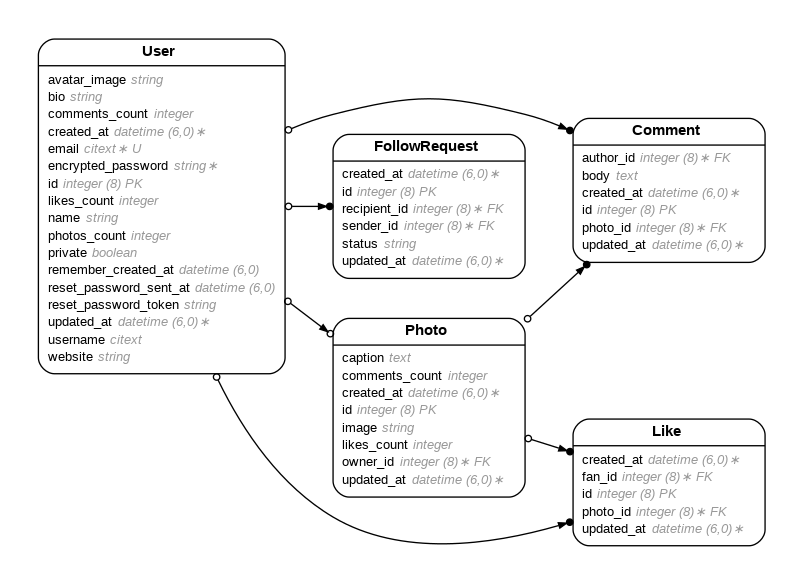
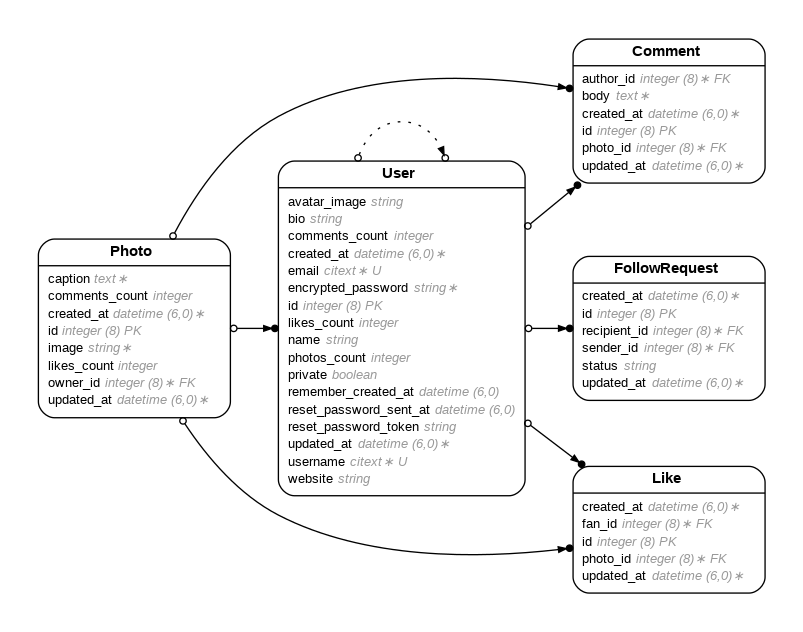
added default value to users privacy

diff --git a/spec/models/user_spec.rb b/spec/models/user_spec.rb
@@ -3,12 +3,11 @@
 # Table name: users
 #
 #  id                     :bigint           not null, primary key
-#  avatar_image           :string           default("avatar_placeholder.png")
+#  avatar_image           :string
 #  bio                    :string
 #  comments_count         :integer          default(0)
 #  email                  :citext           default(""), not null
 #  encrypted_password     :string           default(""), not null
-#  integer                :integer          default(0)
 #  likes_count            :integer          default(0)
 #  name                   :string
 #  photos_count           :integer          default(0)
@@ -16,7 +15,7 @@
 #  remember_created_at    :datetime
 #  reset_password_sent_at :datetime
 #  reset_password_token   :string
-#  username               :citext           not null
+#  username               :citext
 #  website                :string
 #  created_at             :datetime         not null
 #  updated_at             :datetime         not null

diff --git a/db/schema.rb b/db/schema.rb
@@ -10,7 +10,7 @@
 #
 # It's strongly recommended that you check this file into your version control system.
 
-ActiveRecord::Schema[8.0].define(version: 2025_07_19_231132) do
+ActiveRecord::Schema[8.0].define(version: 2025_07_20_214353) do
   # These are extensions that must be enabled in order to support this database
   enable_extension "citext"
   enable_extension "pg_catalog.plpgsql"
@@ -208,7 +208,7 @@ ActiveRecord::Schema[8.0].define(version: 2025_07_19_231132) do
     t.string "avatar_image"
     t.string "bio"
     t.string "website"
-    t.boolean "private"
+    t.boolean "private", default: true
     t.integer "likes_count", default: 0
     t.integer "comments_count", default: 0
     t.datetime "created_at", null: false

diff --git a/app/models/user.rb b/app/models/user.rb
@@ -11,7 +11,7 @@
 #  likes_count            :integer          default(0)
 #  name                   :string
 #  photos_count           :integer          default(0)
-#  private                :boolean
+#  private                :boolean          default(TRUE)
 #  remember_created_at    :datetime
 #  reset_password_sent_at :datetime
 #  reset_password_token   :string
@@ -54,4 +54,6 @@ class User < ApplicationRecord
   has_many :feed, through: :leaders, source: :own_photos
 
   has_many :discover, -> {distinct}, through: :leaders, source: :liked_photos
+
+  validates :username, presence: true, uniqueness: true
 end

diff --git a/app/models/photo.rb b/app/models/photo.rb
@@ -25,4 +25,8 @@ class Photo < ApplicationRecord
   
   has_many :likes
   has_many :fans, through: :likes
+
+  validates :caption, presence: true
+  validates :image, presence: true
+
 end

diff --git a/app/models/comment.rb b/app/models/comment.rb
@@ -22,4 +22,6 @@
 class Comment < ApplicationRecord
   belongs_to :author, class_name: "User", counter_cache: true
   belongs_to :photo
+
+  validates :body, presence: true
 end

diff --git a/db/migrate/20250720214353_add_default_to_private.rb b/db/migrate/20250720214353_add_default_to_private.rb
@@ -1,0 +1,9 @@
+class AddDefaultToPrivate < ActiveRecord::Migration[8.0]
+  def change
+    change_column_default(
+      :users,
+      :private,
+      true
+    )
+  end
+end
